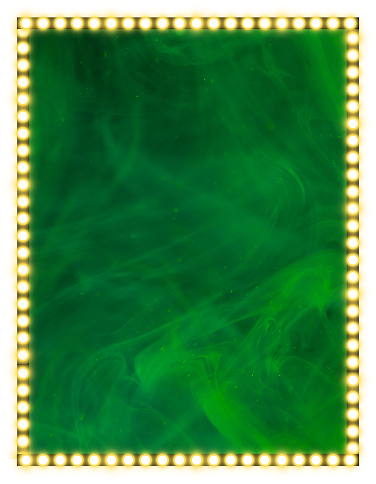
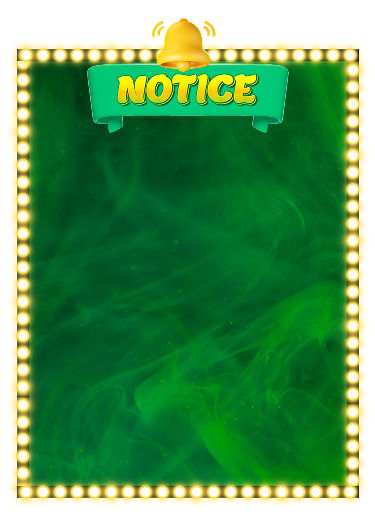
fix: [pak] Adjust spacing

diff --git a/pak-static-h5/src/pages/HomePage.vue b/pak-static-h5/src/pages/HomePage.vue
@@ -1211,8 +1211,8 @@
   </q-dialog>
 
   <q-dialog width="100%" class="announcement-modal" v-model="isStationNotice">
-    <div class="popout-dialog announcement-popout">
-      <div class="announcement-top-img"><img src="../assets/images/index/notice-icon.png" /></div>
+    <div class="popout-dialog announcement-popout" style="width:375px;height:559px;">
+      <!-- <div class="announcement-top-img"><img src="../assets/images/index/notice-icon.png" /></div> -->
 
       <q-btn flat dense icon="close" class="text-black announcement-close" v-close-popup />
       <q-card :class="{ wPage: maxPage > 1 }" style="width: 90%; margin: auto" class="announcement-card">
@@ -1315,7 +1315,7 @@
         </q-card-section>
       </q-card>
 
-      <q-card-actions v-if="maxPage > 1" class="q-px-lg" align="center">
+      <q-card-actions v-if="maxPage > 1" class="q-px-lg" align="center" style="padding:0;">
         <q-pagination class="pagiantion" v-model="page" :max="maxPage" :max-pages="7" boundary-numbers />
       </q-card-actions>
     </div>
@@ -5192,23 +5192,12 @@ const checkGoogleLoginSetPwd = () => {
   height: calc(100vh - 108px);
 }
 .announcement-top-img {
-  // margin-bottom: -120px;
-  // width: 200px;
-  //   width: 150px;
-  //   // margin: 0 auto -100px;
-  //   margin: 0px 0 -100px 12px;
-  // z-index: 1;
-  // z-index: 1;
   width: 210px;
   top: -18px;
   left: 0;
   right: 0;
   margin: auto;
-  // top: 30px;
   position: absolute;
-  // left: 0;
-  // right: -10px;
-  // margin: auto;
   img {
     width: 100%;
   }
@@ -5218,11 +5207,9 @@ const checkGoogleLoginSetPwd = () => {
   // height: 470px;
   background: url(../assets/images/index/notice-bg.png) no-repeat center bottom;
   border-radius: 30px 30px 0 0;
-
   height: 580px;
   background-size: 100% 95%;
   padding-top: 50px;
-  margin-bottom: -45px;
 }
 .announcement-card {
   height: 100%;
@@ -5233,7 +5220,7 @@ const checkGoogleLoginSetPwd = () => {
   background: transparent;
   // padding: 120px 20px 20px 20px;
 
-  padding: 90px 10px 0px;
+  padding: 32% 10px 0px;
   // overflow-y: auto;
   // background: transparent;
   // background: linear-gradient(180deg, rgba(36, 36, 36, 1) 0%, rgba(35, 45, 31, 1) 100%);
@@ -5257,8 +5244,8 @@ const checkGoogleLoginSetPwd = () => {
   background: #a7e0b8;
 
   border-radius: 24px;
-  padding: 8px 12px;
-  margin: 0 0 3px;
+  padding: 4px 12px;
+  margin: 0 0 4px;
   display: flex;
   gap: 5px;
   &:last-child {
